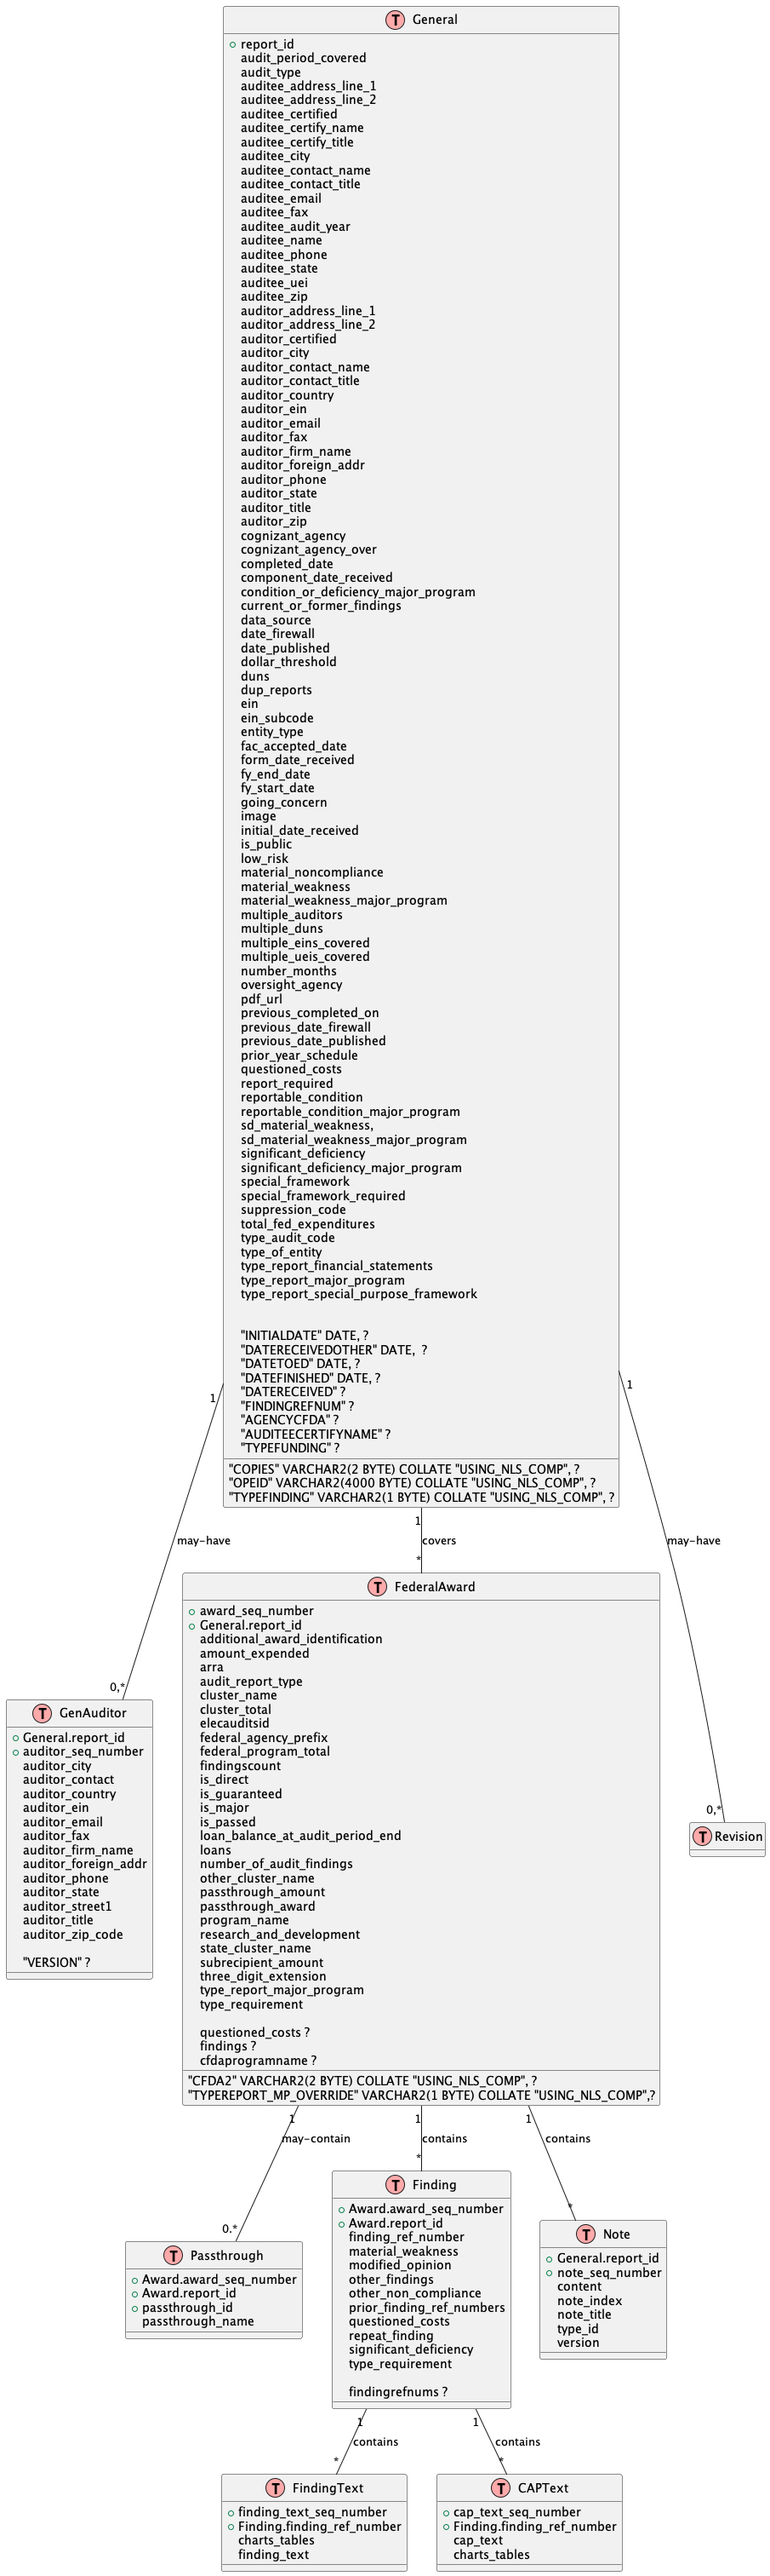
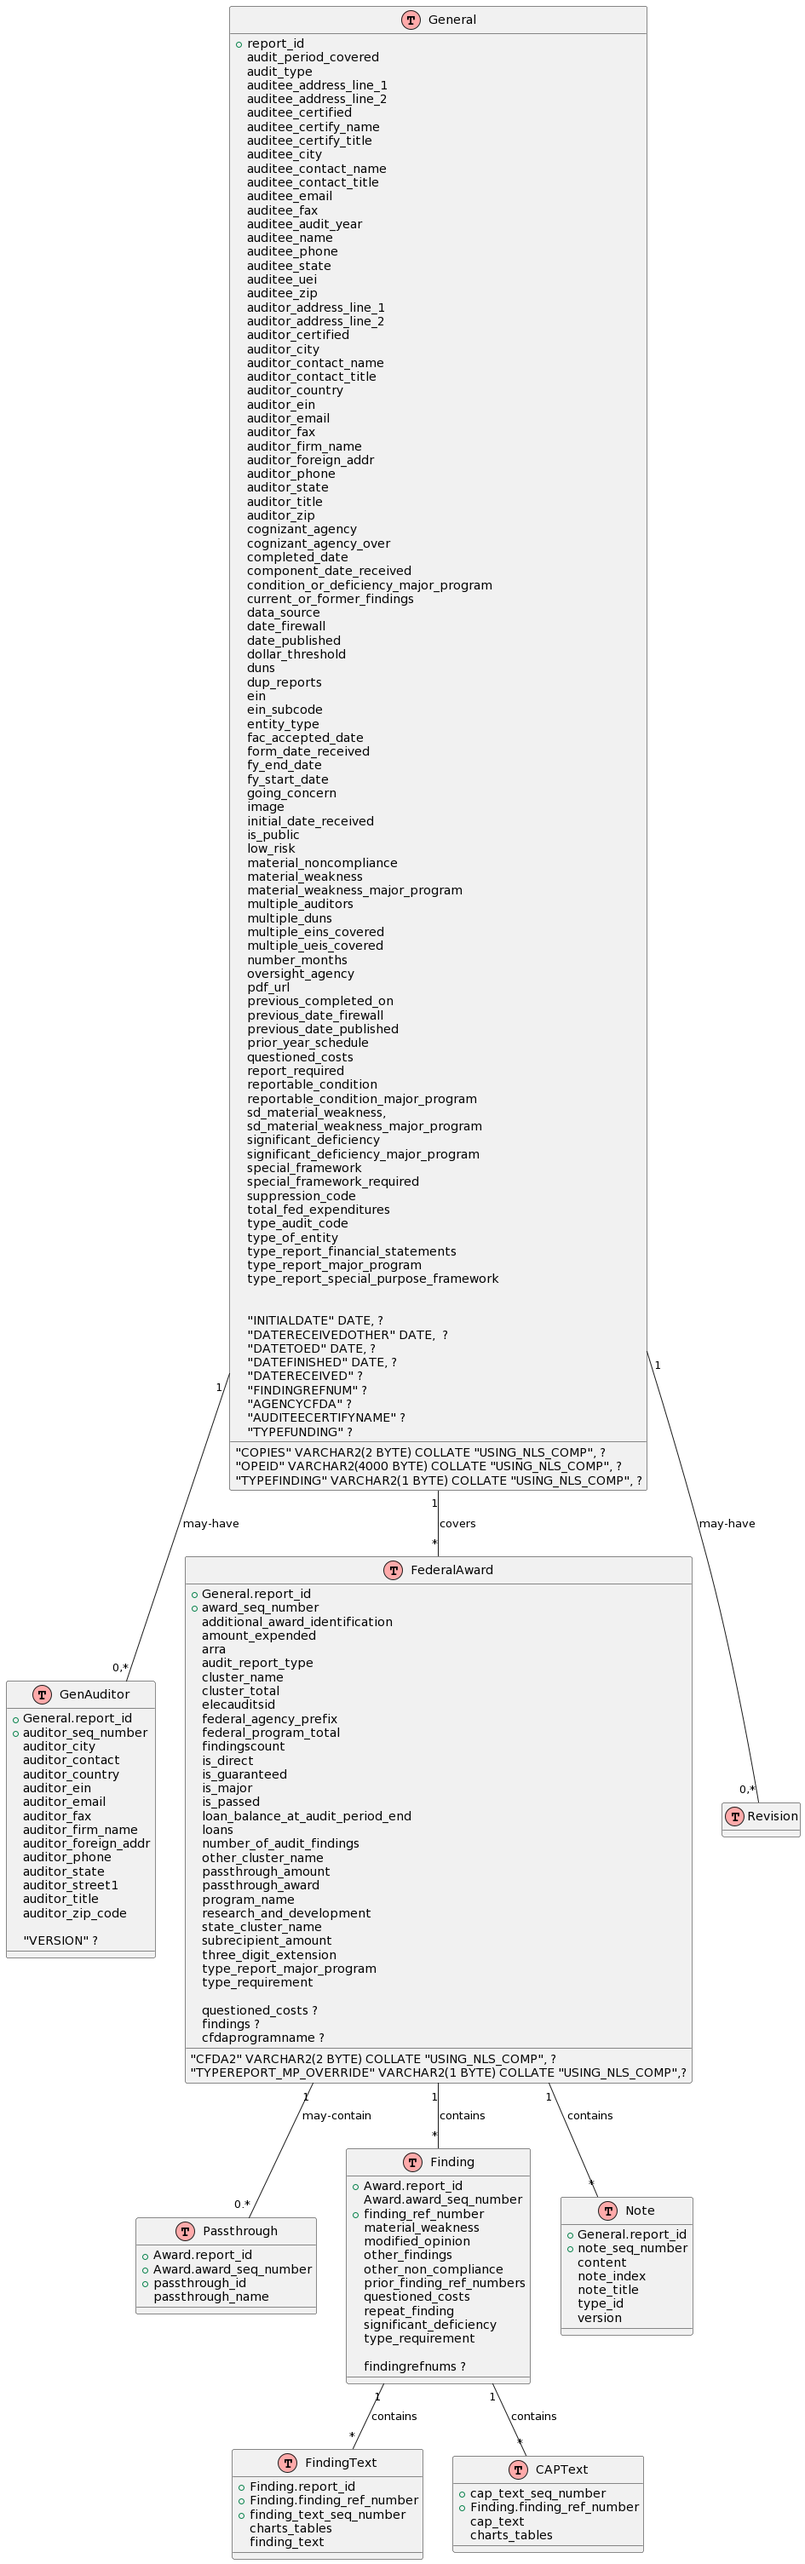
Tweak and create png file

diff --git a/backend/dissemination/data-model/fac.md b/backend/dissemination/data-model/fac.md
@@ -137,8 +137,8 @@ TABLE(Auditor, "GenAuditor") {
 
 
 TABLE(Award, "FederalAward") {
-  + award_seq_number 
   + General.report_id
+  + award_seq_number 
   additional_award_identification 
   amount_expended 
   arra 
@@ -175,17 +175,17 @@ TABLE(Award, "FederalAward") {
 }
 
 TABLE(Passthrough, "Passthrough") {
-  + Award.award_seq_number /' Old ELECSAUDIT '/
   + Award.report_id
+  + Award.award_seq_number /' Old ELECSAUDIT '/
   + passthrough_id
   passthrough_name
 }
 
 
 TABLE(Finding, "Finding") {
-  + Award.award_seq_number /' To be added to GFAC '/
   + Award.report_id
-  finding_ref_number /' GFAC '/
+  Award.award_seq_number /' To be added to GFAC '/
+  + finding_ref_number /' GFAC '/
   material_weakness
   modified_opinion
   other_findings
@@ -211,8 +211,9 @@ TABLE(Note, "Note") {
 
 
 TABLE(FindingText, "FindingText") {
-  + finding_text_seq_number
+  + Finding.report_id
   + Finding.finding_ref_number
+  + finding_text_seq_number
   charts_tables
   finding_text
 }
